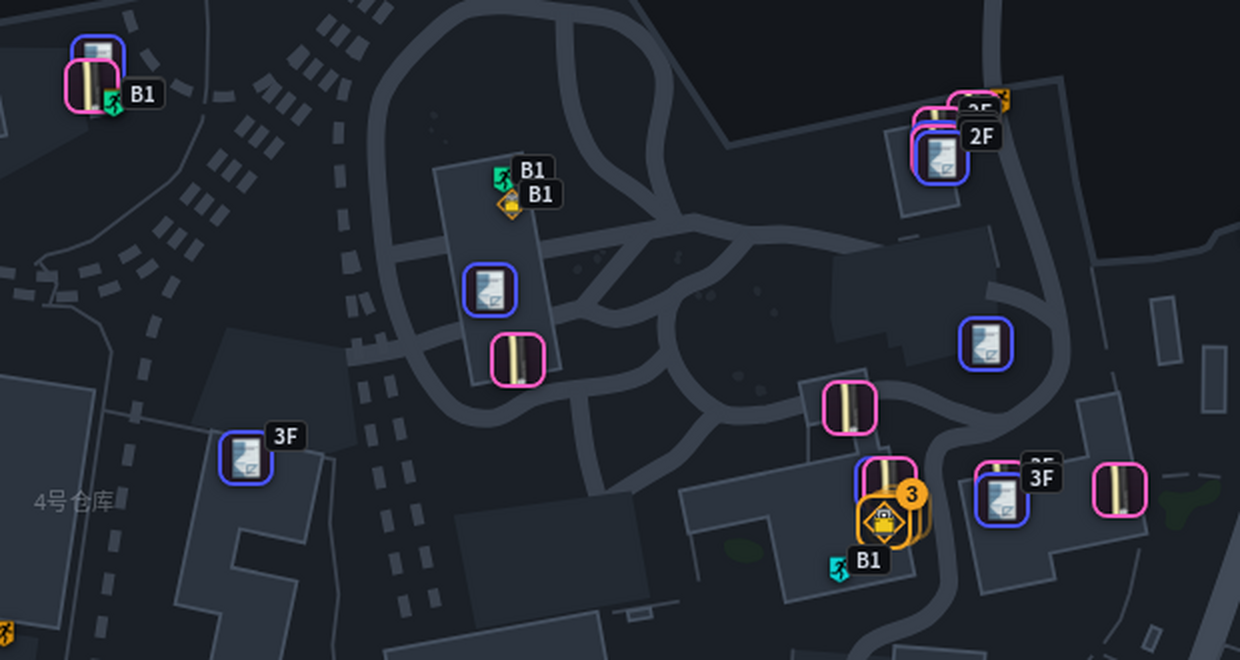
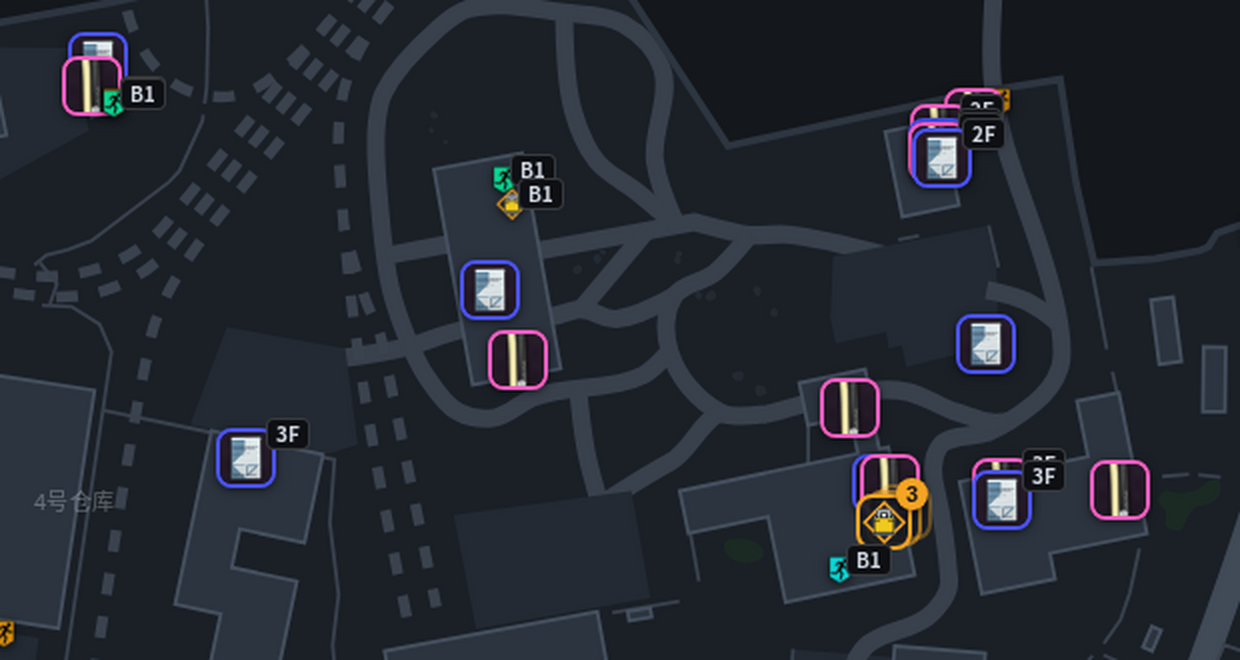
界面：赛季文件徽章放大到 30px，物品图裁掉空边

diff --git a/app/src/map/icons.ts b/app/src/map/icons.ts
@@ -15,23 +15,25 @@ export function iconUrl(name: string) {
 
 /**
  * 赛季文件在地图上：物品图 + 2px 的种类色边框，暗底圆角（v3-doc-badges2.png）。
- * 物品图里面的空边在 CSS 里裁掉（图放大到框的 132%），文件才撑得满。
+ * 物品图按框内尺寸的 1.35 倍居中、框 overflow:hidden，裁掉图里的空边让文件撑满框。
  * 没有物品图（换了赛季、换了物品 id）退回文件形状的徽章。
  */
 const DOC_PATH = "M6.6 2.4h6.9l3.9 3.9v15.3H6.6z";
 const DOC_FOLD = "M13.5 2.4v3.9h3.9";
 
 function imgBadge(color: string, size: number, src: string, key?: string, attrs = ""): string {
-  const r = Math.round(size * 0.29);
+  const r = Math.round(size * 0.27);
+  // 图按框内尺寸（去掉 2px 边框）的 1.35 倍居中，框 overflow:hidden 裁掉物品图四周的空边
+  const pic = Math.round((size - 4) * 1.35);
   return (
     `<span class="otm-doc otm-doc-img" data-k="${key ?? ""}"${attrs} style="--c:${color};width:${size}px;height:${size}px;` +
     `border-radius:${r}px;border-width:2px">` +
-    `<img src="${src}" alt="" draggable="false"/></span>`
+    `<img src="${src}" alt="" draggable="false" style="width:${pic}px;height:${pic}px"/></span>`
   );
 }
 
 function docBadge(color: string, size: number, key?: string, attrs = ""): string {
-  const r = Math.round(size * 0.3);
+  const r = Math.round(size * 0.27);
   const bw = Math.max(1.5, Math.round(size * 0.085));
   return (
     `<span class="otm-doc" data-k="${key ?? ""}"${attrs} style="--c:${color};width:${size}px;height:${size}px;` +
@@ -58,8 +60,8 @@ export function annotationIcon(a: Annotation, size = 26): L.DivIcon {
   const layerCls = a.floorIndex === undefined ? "" : ` otm-l${a.floorIndex}`;
   const dataL = a.floorIndex === undefined ? "" : ` data-l="${a.floorIndex}"`;
   if (a.season) {
-    // 整张图时 28px（比撤离点、上锁的门大一号），放大时跟着其它单个标注一起长
-    const s = Math.round(Math.max(28, size * 1.15));
+    // 整张图时 30px（比撤离点、上锁的门大一号），放大时跟着其它单个标注一起长
+    const s = Math.round(Math.max(30, size * 1.15));
     const src = itemIcon(a.item);
     const badge = src
       ? imgBadge(a.color ?? "#4da3ff", s, src, a.key, dataL)

diff --git a/app/src/ui/styles.ts b/app/src/ui/styles.ts
@@ -34,10 +34,10 @@ button { font: inherit; color: inherit; background: none; border: none; padding:
   box-shadow: 0 1px 4px rgba(0,0,0,.6);
 }
 .otm-doc svg { position: absolute; inset: 13%; width: 74%; height: 74%; }
-/* 物品图徽章：图放大到框的 132%，把图里的空边裁在外面，文件撑满（v3-doc-badges2.png） */
+/* 物品图徽章：图比框大 1.35 倍居中（尺寸写在行内），overflow 裁掉四周空边，文件撑满框 */
 .otm-doc-img { overflow: hidden; }
 .otm-doc-img img, .otm-anno:hover .otm-doc-img img {
-  position: absolute; left: 50%; top: 50%; width: 132%; height: 132%;
+  position: absolute; left: 50%; top: 50%; max-width: none;
   transform: translate(-50%, -50%); filter: none;
 }
 .otm-doc-anno:hover .otm-doc { filter: brightness(1.15); box-shadow: 0 0 7px rgba(255,255,255,.4); }
@@ -105,7 +105,9 @@ button { font: inherit; color: inherit; background: none; border: none; padding:
 .sc.on.extract { background: var(--c-extract); }
 .sc.on.hazard { background: var(--warn); }
 .sc.season { color: var(--c, var(--c-season)); }
-.sc.season img.si { border-radius: 3px; }
+.sc.season .si { position: relative; flex: 0 0 auto; width: 14px; height: 14px; border-radius: 3px; overflow: hidden; background: #11141a; }
+.sc.season .si img { position: absolute; left: 50%; top: 50%; width: 19px; height: 19px; max-width: none; transform: translate(-50%, -50%); filter: none; }
+.sc.on .si { background: transparent; }
 .sc.season.on { background: var(--c, var(--c-season)); border-color: var(--c, var(--c-season)); color: #14171c; }
 
 /* 右上工具 */

diff --git a/app/src/ui/FilterPanel.tsx b/app/src/ui/FilterPanel.tsx
@@ -155,7 +155,11 @@ export function FilterPanel({ set }: { set: AnnotationSet }) {
                       style={{ "--c": s.color } as CSSProperties}
                       onClick={() => toggleSub("season", s.id)}
                     >
-                      {pic ? <img className="si" src={pic} alt="" /> : null}
+                      {pic ? (
+                        <span className="si">
+                          <img src={pic} alt="" />
+                        </span>
+                      ) : null}
                       {s.name}
                     </button>
                   );
